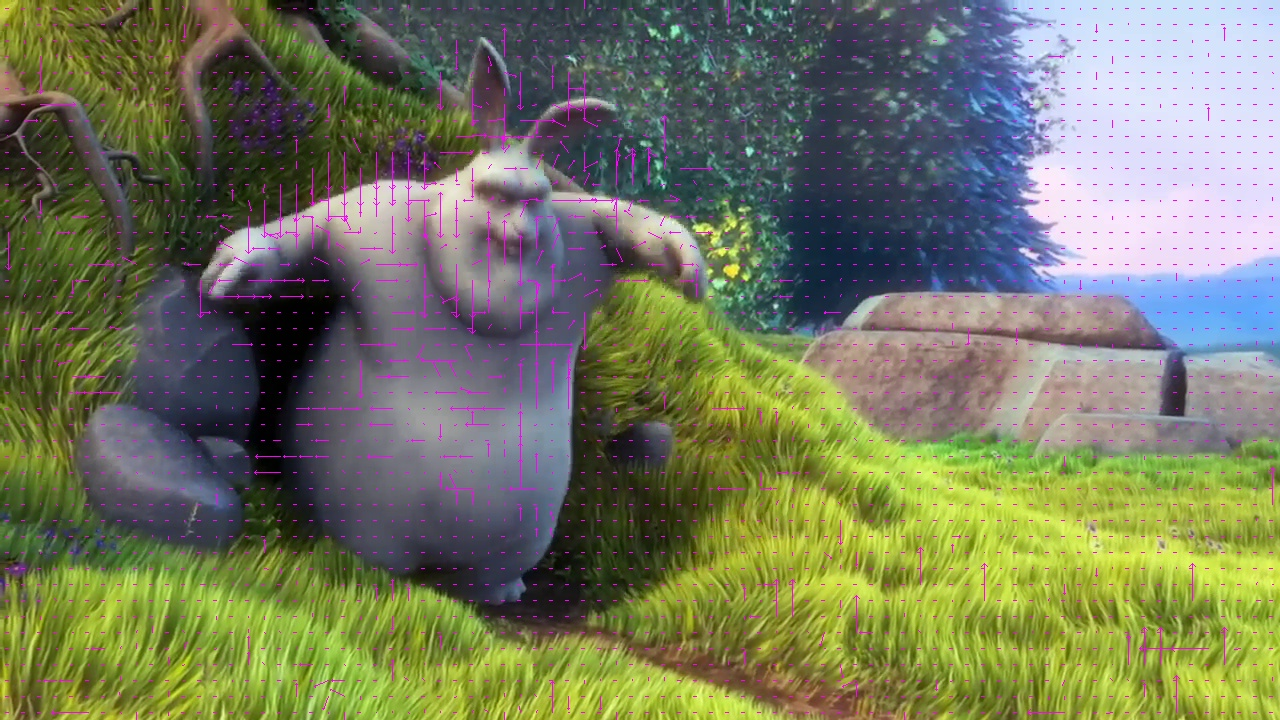
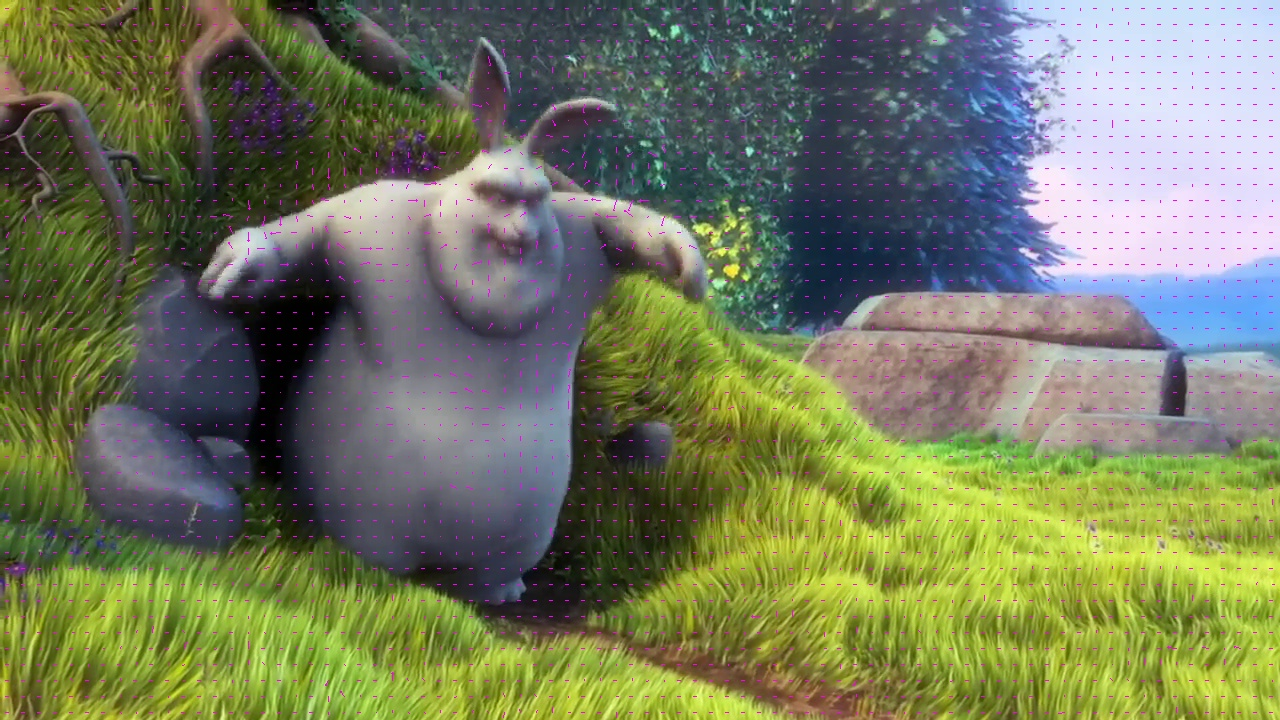
hw3 v6

diff --git a/hw3/3.py b/hw3/3.py
@@ -44,17 +44,18 @@ def fullSearch(tar, ref, rowIndex, colIndex, searchRange):
     return np.array(best)
 
 def updateCenter(center, best, rowIndex, colIndex, imgShape):
-    center = (center[0] + best[0], center[1] + best[1])
-    if rowIndex + center[0] < 0:
-        center = (-rowIndex, center[1])
-    elif rowIndex + center[0] >= imgShape[0]:
-        center = (imgShape[0] - 1 - rowIndex, center[1])
-    if colIndex + center[1] < 0:
-        center = (center[0], -colIndex)
-    elif colIndex + center[1] >= imgShape[1]:
-        center = (center[0], imgShape[1] - 1 - colIndex)
+    newCenter = (center[0] + best[0], center[1] + best[1])
 
-    return center
+    if rowIndex + newCenter[0] < 0:
+        newCenter = (-rowIndex, newCenter[1])
+    elif rowIndex + newCenter[0] >= imgShape[0]:
+        newCenter = (imgShape[0] - 1 - rowIndex, newCenter[1])
+    if colIndex + newCenter[1] < 0:
+        newCenter = (newCenter[0], -colIndex)
+    elif colIndex + newCenter[1] >= imgShape[1]:
+        newCenter = (newCenter[0], imgShape[1] - 1 - colIndex)
+
+    return newCenter
 
 def logSearch(tar, ref, rowIndex, colIndex, searchRange):
     best = None
@@ -65,7 +66,7 @@ def logSearch(tar, ref, rowIndex, colIndex, searchRange):
     while step >= 1:
         for i in [-step, 0, step]:
             for j in [-step, 0, step]:
-                if i * j != 0:
+                if i * j != 0 and (i != 0 or j != 0):
                     continue
                 if 0 <= rowIndex + center[0] + i < ref.shape[0] and 0 <= colIndex + center[1] + j < ref.shape[1]:
                     nowSAD = calSAD(ref[rowIndex + center[0] + i, colIndex + center[1] + j], tar[rowIndex, colIndex])
@@ -73,6 +74,7 @@ def logSearch(tar, ref, rowIndex, colIndex, searchRange):
                         minSAD = nowSAD
                         best = (i, j)
         center = updateCenter(center, best, rowIndex, colIndex, ref.shape)
+        best = (0, 0)
         step //= 2
 
     for i in [-1, 0, 1]:
@@ -177,7 +179,7 @@ if __name__ == '__main__':
     # part 2
     mbRef = macroblockDivide(image40, 8)
     mbTar = macroblockDivide(image51, 8)
-    mv = calMotionVector(mbRef, mbTar, 8, logSearch)
+    mv = calMotionVector(mbRef, mbTar, 8, fullSearch)
     imagePdt = predict(image40, mv, 8)
     saveImage(imagePdt[:,:,::-1], f'40to51.jpg')
     print('40 to 51 -- SAD: {}, PSNR: {:2.4f}'.format(calSAD(image51, imagePdt), PSNR(image51, imagePdt)))
